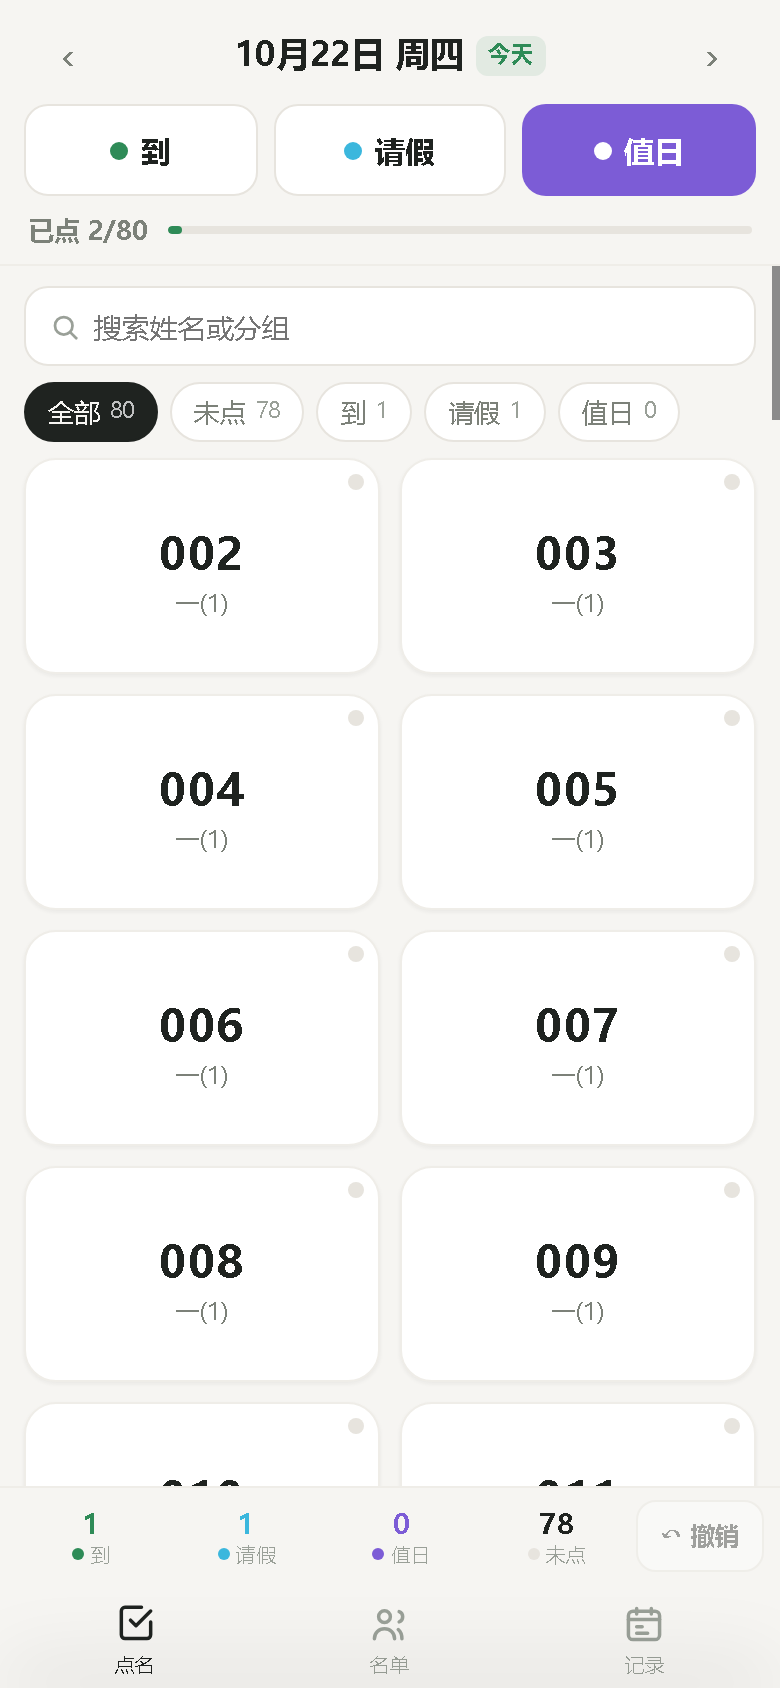
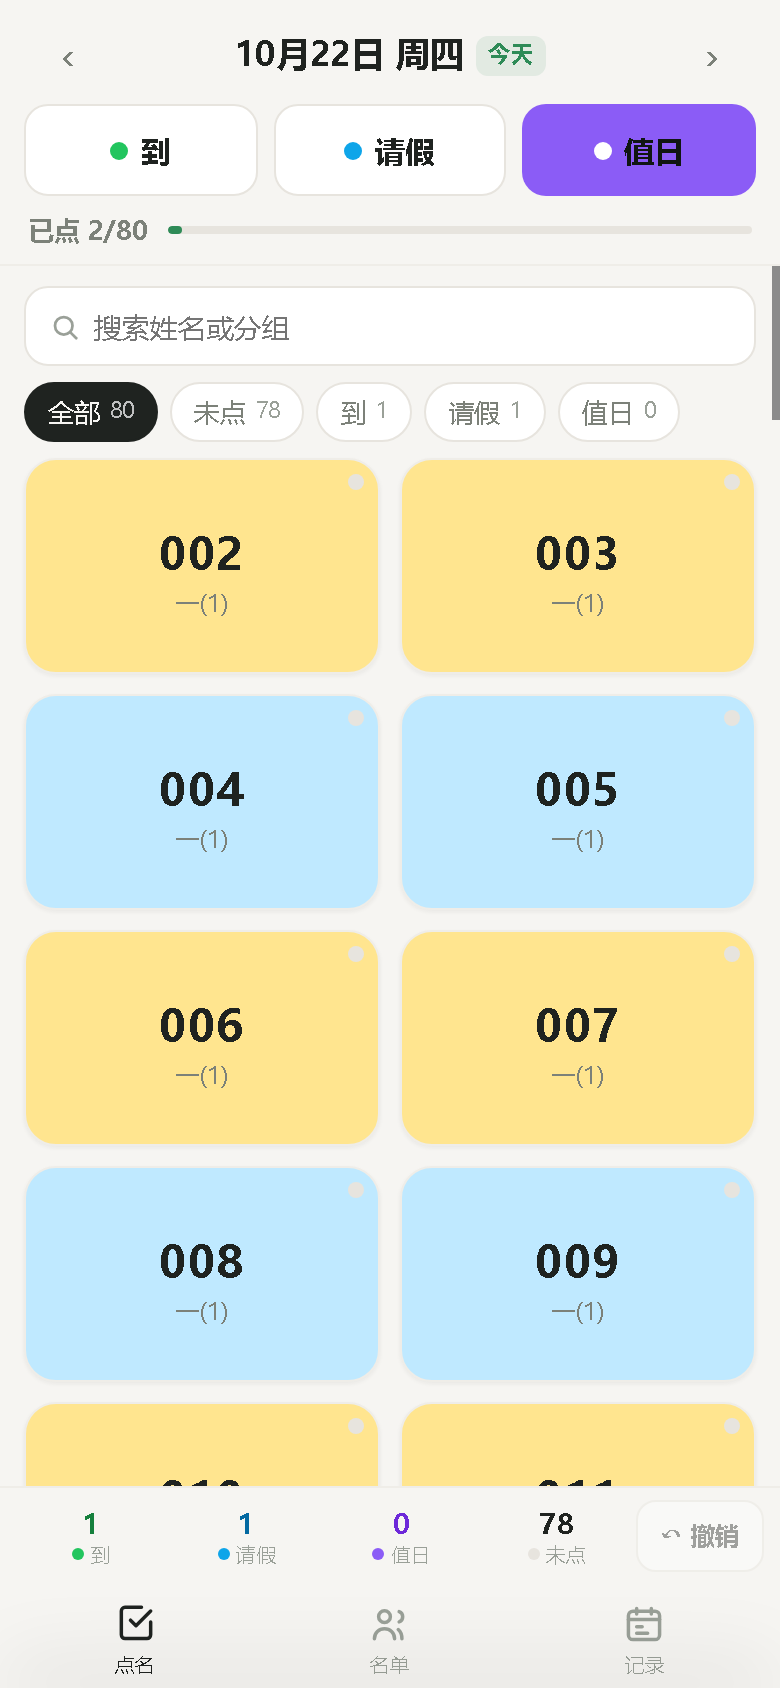
v1.2.1: 学生卡片按行斑马纹（暖黄/浅蓝）；状态色提亮并加强选中底色

diff --git a/index.html b/index.html
@@ -34,11 +34,13 @@
   --safe-l:env(safe-area-inset-left, 0px);
   --safe-r:env(safe-area-inset-right, 0px);
   /* 状态色 */
-  --s-dao:#2E8B57;
-  --s-late:#D9A21B;
-  --s-leave:#3BB7DD;
+  --s-dao:#22C55E;
+  --s-late:#F59E0B;
+  --s-leave:#0EA5E9;
   --s-absent:#D9534F;
-  --s-duty:#7C5CD6;
+  --s-duty:#8B5CF6;
+  --row-a:#FFE58F;
+  --row-b:#BFE9FF;
   --dur:150ms;
 }
 @media (prefers-color-scheme: dark){
@@ -52,6 +54,8 @@
     --muted:#9BA1A6;
     --muted-2:#7E848A;
     --accent:#3FA36B;
+    --row-a:#3A3116;
+    --row-b:#17303D;
     --shadow:0 1px 2px rgba(0,0,0,.4), 0 6px 16px rgba(0,0,0,.35);
     --shadow-s:0 1px 2px rgba(0,0,0,.35);
   }
@@ -108,7 +112,7 @@ input[type=date]{-webkit-appearance:none; appearance:none;}
 }
 .brush button:active{transform:scale(.97);}
 .brush button i{width:9px; height:9px; border-radius:50%; display:block;}
-.brush button.on{color:#fff; border-color:transparent;}
+.brush button.on{color:#101613; border-color:transparent;}
 .brush button.on[data-k=dao]{background:var(--s-dao);}
 .brush button.on[data-k=leave]{background:var(--s-leave);}
 .brush button.on[data-k=duty]{background:var(--s-duty);}
@@ -146,8 +150,11 @@ input[type=date]{-webkit-appearance:none; appearance:none;}
 
 /* 学生网格（v1.1：2 列大名片，点名页不再渲染头像圆） */
 .grid{display:grid; grid-template-columns:repeat(2, minmax(0,1fr)); gap:10px;}
+/* 行斑马纹：两列一行，单数行暖黄 / 双数行浅蓝 */
+.grid .card:nth-child(4n+1), .grid .card:nth-child(4n+2){--row-bg:var(--row-a);}
+.grid .card:nth-child(4n+3), .grid .card:nth-child(4n+4){--row-bg:var(--row-b);}
 .card{
-  position:relative; background:var(--card); border-radius:var(--r); border:1px solid var(--line-2);
+  position:relative; background:var(--row-bg, var(--card)); border-radius:var(--r); border:1px solid var(--line-2);
   padding:20px 10px 14px; display:flex; flex-direction:column; align-items:center; justify-content:center; gap:3px;
   text-align:center;
   box-shadow:var(--shadow-s); transition:transform 130ms ease, box-shadow 130ms ease, background 130ms ease, border-color 130ms ease;
@@ -166,16 +173,16 @@ input[type=date]{-webkit-appearance:none; appearance:none;}
   white-space:nowrap; overflow:hidden; text-overflow:ellipsis; margin-top:1px;
 }
 /* 选中态：边框色 + 淡底 + 左上角文字标签，三通道（不再依赖头像环） */
-.card.st-dao{background:color-mix(in srgb, var(--s-dao) 7%, var(--card)); border-color:color-mix(in srgb, var(--s-dao) 46%, var(--line));}
+.card.st-dao{background:color-mix(in srgb, var(--s-dao) 45%, var(--row-bg)); border-color:var(--s-dao);}
 .card.st-dao .dot{background:var(--s-dao);}
-.card.st-leave{background:color-mix(in srgb, var(--s-leave) 9%, var(--card)); border-color:color-mix(in srgb, var(--s-leave) 48%, var(--line));}
+.card.st-leave{background:color-mix(in srgb, var(--s-leave) 45%, var(--row-bg)); border-color:var(--s-leave);}
 .card.st-leave .dot{background:var(--s-leave);}
-.card.st-duty{background:color-mix(in srgb, var(--s-duty) 8%, var(--card)); border-color:color-mix(in srgb, var(--s-duty) 48%, var(--line));}
+.card.st-duty{background:color-mix(in srgb, var(--s-duty) 45%, var(--row-bg)); border-color:var(--s-duty);}
 .card.st-duty .dot{background:var(--s-duty);}
 /* 状态文字徽标（不靠颜色单独区分） */
 .card .tag{
   position:absolute; left:6px; top:6px; font-size:9px; font-weight:700; line-height:1;
-  padding:3px 4px; border-radius:5px; color:#fff; display:none;
+  padding:3px 4px; border-radius:5px; color:#101613; display:none;
 }
 .card[data-st]:not([data-st=""]) .tag{display:block;}
 .card[data-st=dao] .tag{background:var(--s-dao);}
@@ -396,7 +403,7 @@ table.tb td{font-variant-numeric:tabular-nums;}
    ===================================================================== */
 
 /* ---------------------- 常量 ---------------------- */
-var APP_VERSION = "1.2.0";
+var APP_VERSION = "1.2.1";
 var DB_NAME = "wudian-db";
 var DB_VER = 1;
 var UNDO_LIMIT = 20;          /* 撤销栈深度 */
@@ -407,9 +414,9 @@ var SLOTS = [
   { k: "lunch", n: "午餐" }
 ];
 var STATUS = [
-  { k: "dao",    n: "到",   c: "#2E8B57" },
-  { k: "leave",  n: "请假", c: "#3BB7DD" },
-  { k: "duty",   n: "值日", c: "#7C5CD6" }
+  { k: "dao",    n: "到",   c: "#22C55E", ink: "#15803D" },
+  { k: "leave",  n: "请假", c: "#0EA5E9", ink: "#0369A1" },
+  { k: "duty",   n: "值日", c: "#8B5CF6", ink: "#6D28D9" }
 ];
 var ST = {};
 STATUS.forEach(function (s) { ST[s.k] = s; });
@@ -862,7 +869,7 @@ function refreshRollChrome() {
   var sb = $("#statsBar");
   var html = "";
   STATUS.forEach(function (s) {
-    html += '<div class="st"><span class="n" style="color:' + s.c + '">' + c[s.k] + "</span>" +
+    html += '<div class="st"><span class="n" style="color:' + (s.ink || s.c) + '">' + c[s.k] + "</span>" +
       '<span class="l"><i style="background:' + s.c + '"></i>' + s.n + "</span></div>";
   });
   html += '<div class="st total"><span class="n">' + c.none + "</span>" +
@@ -1476,7 +1483,7 @@ function openStudentHistory(sid) {
     '<button class="x" data-close>✕</button></div><div class="sh-bd">';
   h += '<div class="panel" style="display:grid;grid-template-columns:repeat(3,1fr);gap:6px;text-align:center;padding:10px 6px">';
   STATUS.forEach(function (st) {
-    h += '<div><div style="font-size:17px;font-weight:700;color:' + st.c + '">' + cnt[st.k] + "</div>" +
+    h += '<div><div style="font-size:17px;font-weight:700;color:' + (st.ink || st.c) + '">' + cnt[st.k] + "</div>" +
       '<div style="font-size:10.5px;color:var(--muted-2);margin-top:2px">' + st.n + "</div></div>";
   });
   h += "</div>";
@@ -1488,7 +1495,7 @@ function openStudentHistory(sid) {
       h += '<div class="drow"><div class="d1"><div class="t" style="font-size:13.5px">' + dateLabel(r.date) +
         ' <span style="font-size:11px;color:var(--muted-2);font-weight:400">' + slotName(r.slot) + "</span></div>" +
         '<div class="s">记录于 ' + tsLabel(r.updatedAt) + "</div></div>" +
-        '<span style="font-size:12px;font-weight:700;color:' + ST[r.status].c + '">' + ST[r.status].n + "</span></div>";
+      '<span style="font-size:12px;font-weight:700;color:' + (ST[r.status].ink || ST[r.status].c) + '">' + ST[r.status].n + "</span></div>";
     });
     h += "</div>";
   }
@@ -1588,7 +1595,7 @@ function openDaySheet(date) {
         esc(s ? s.name : "（已删除）") + ' <span style="font-size:11px;color:var(--muted-2);font-weight:400">' +
         esc(s ? (s.group || "未分组") : "") + "</span></div>" +
         '<div class="s">' + tsLabel(r.updatedAt) + "</div></div>" +
-        '<span style="font-size:12px;font-weight:700;color:' + ST[r.status].c + '">' + ST[r.status].n + "</span></div>";
+        '<span style="font-size:12px;font-weight:700;color:' + (ST[r.status].ink || ST[r.status].c) + '">' + ST[r.status].n + "</span></div>";
     });
     h += "</div>";
   });

diff --git a/sw.js b/sw.js
@@ -3,7 +3,7 @@
    升级方式：改动 index.html 等文件后，把 VERSION 改一个号再部署。
    ===================================================================== */
 
-var VERSION = "wudian-v1.2.0";
+var VERSION = "wudian-v1.2.1";
 var CACHE = "wudian-shell-" + VERSION;
 
 /* 外壳资源：断网也要能打开，所以 index.html 必须进预缓存 */

diff --git a/README.md b/README.md
@@ -1,4 +1,4 @@
-# 午托点名 PWA v1.2（单次点名版）
+# 午托点名 PWA v1.2.1（单次点名版）
 
 iPhone 优先的午托班点名小应用：一天点名一次，状态只有 **到 / 请假 / 值日**；断网可用，数据只存在手机本机（IndexedDB），不依赖任何服务器和账号。
 
